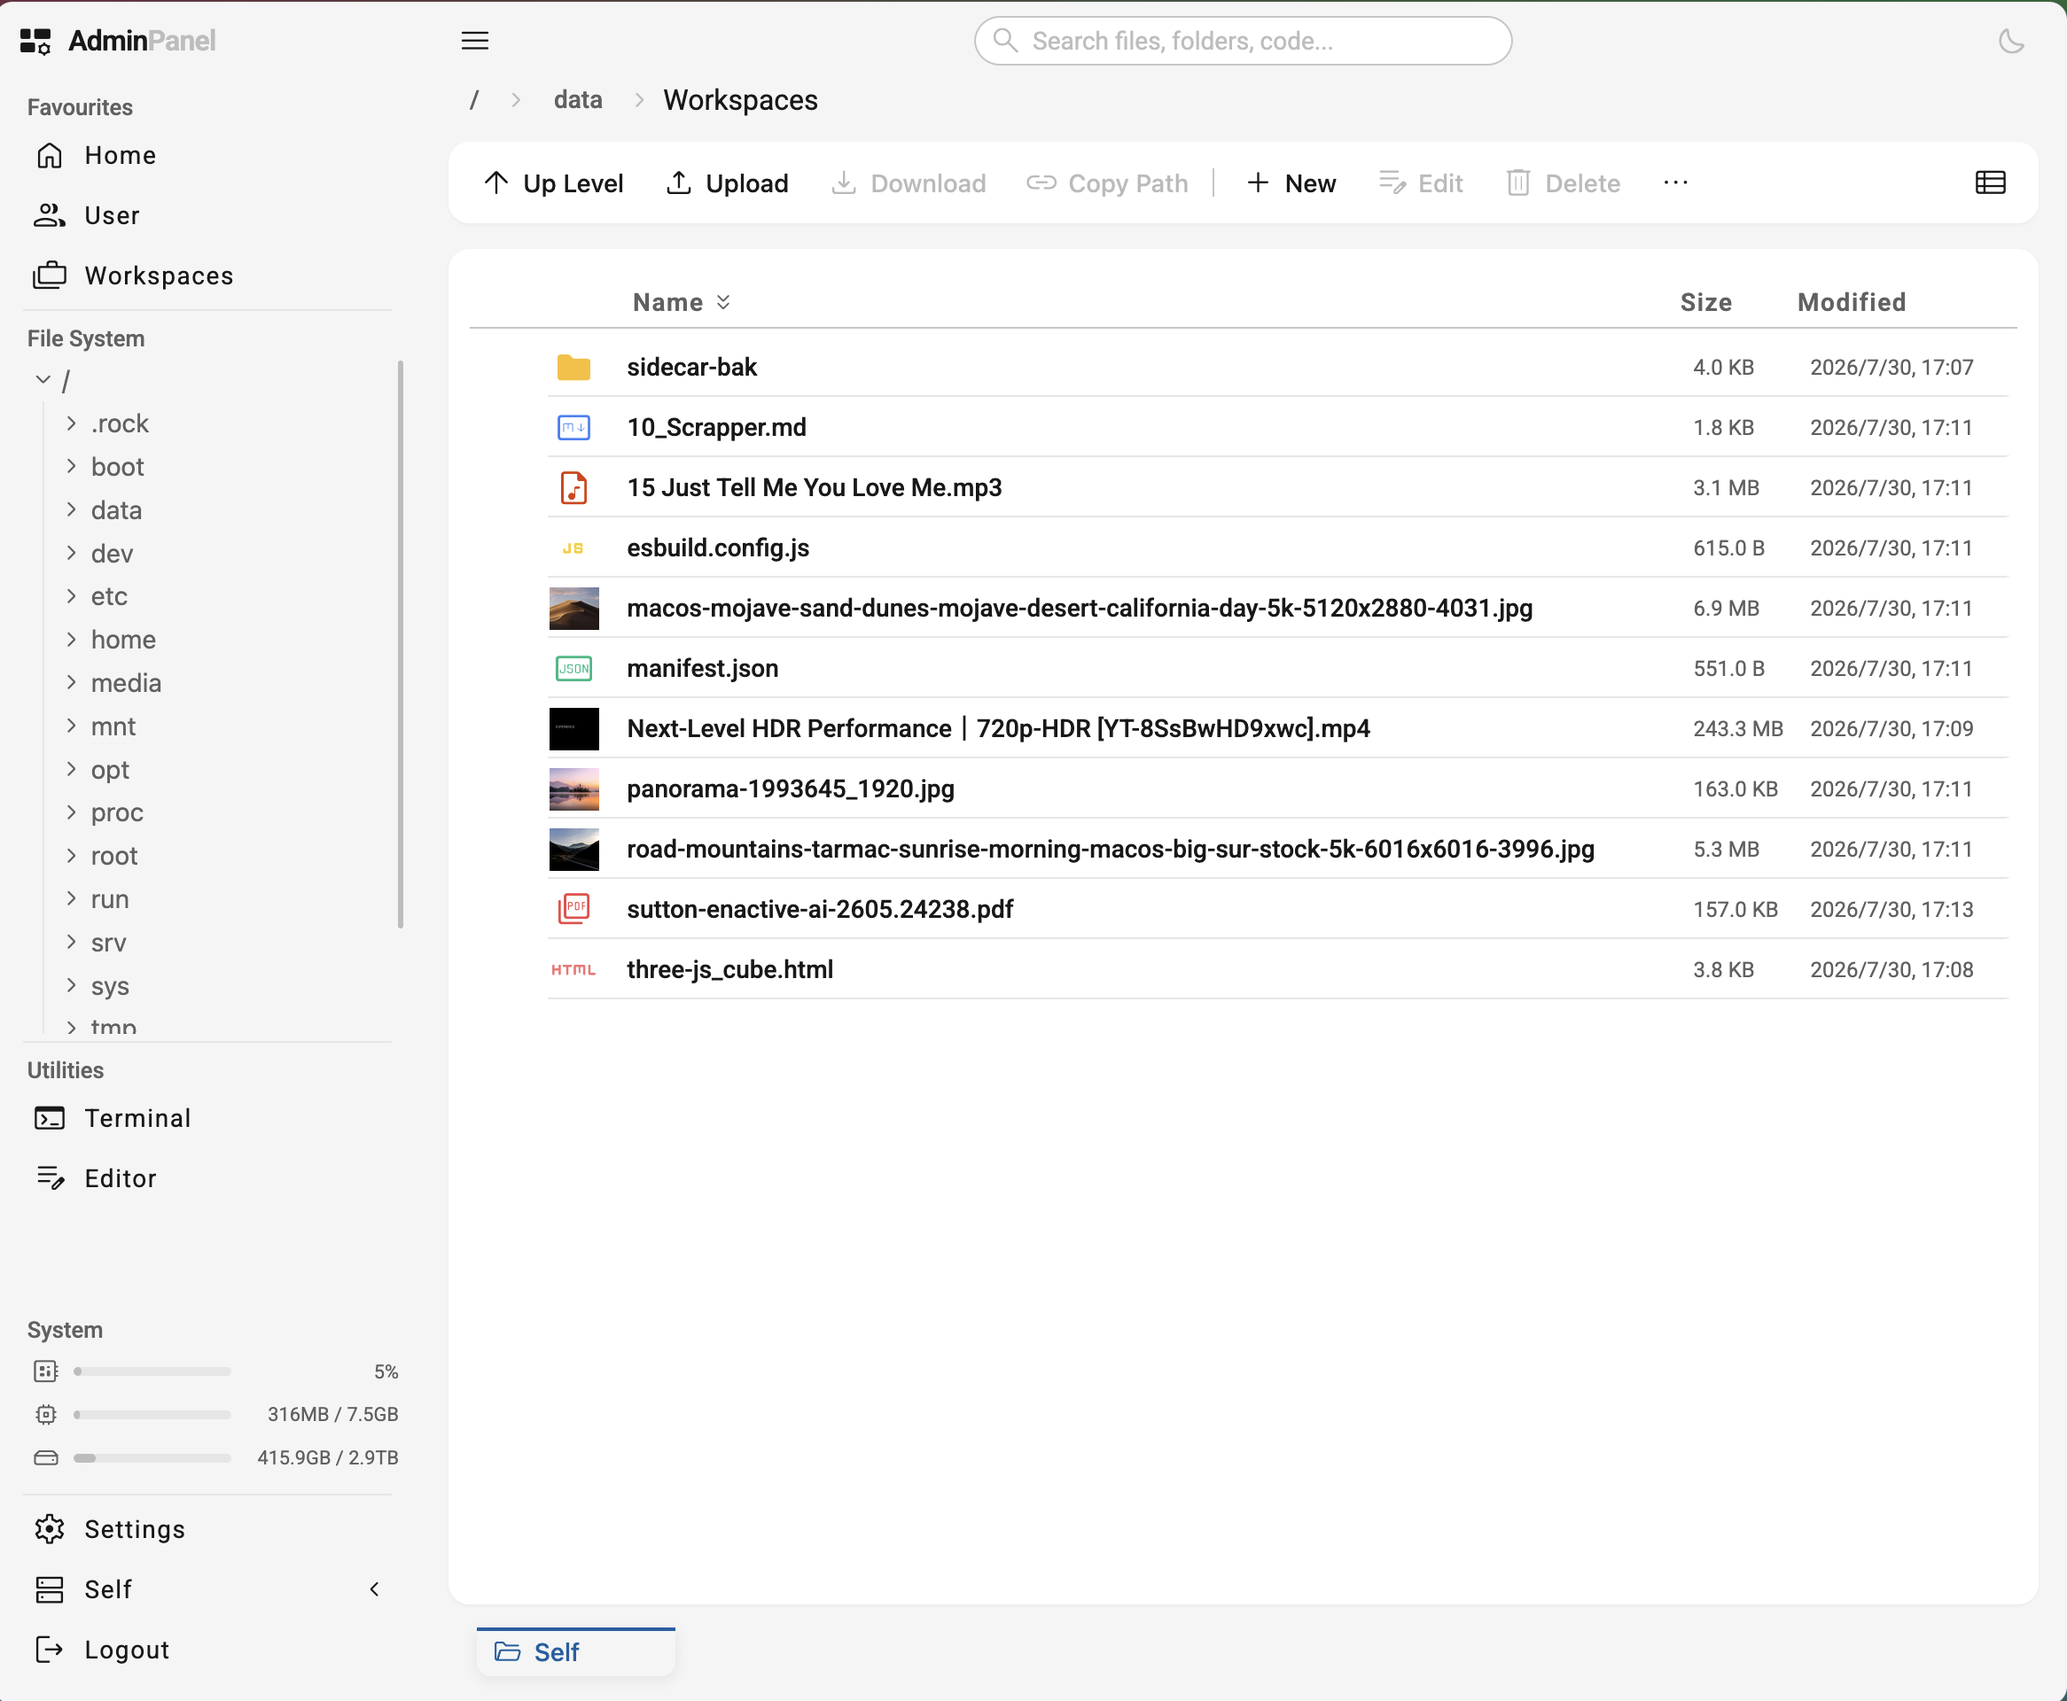
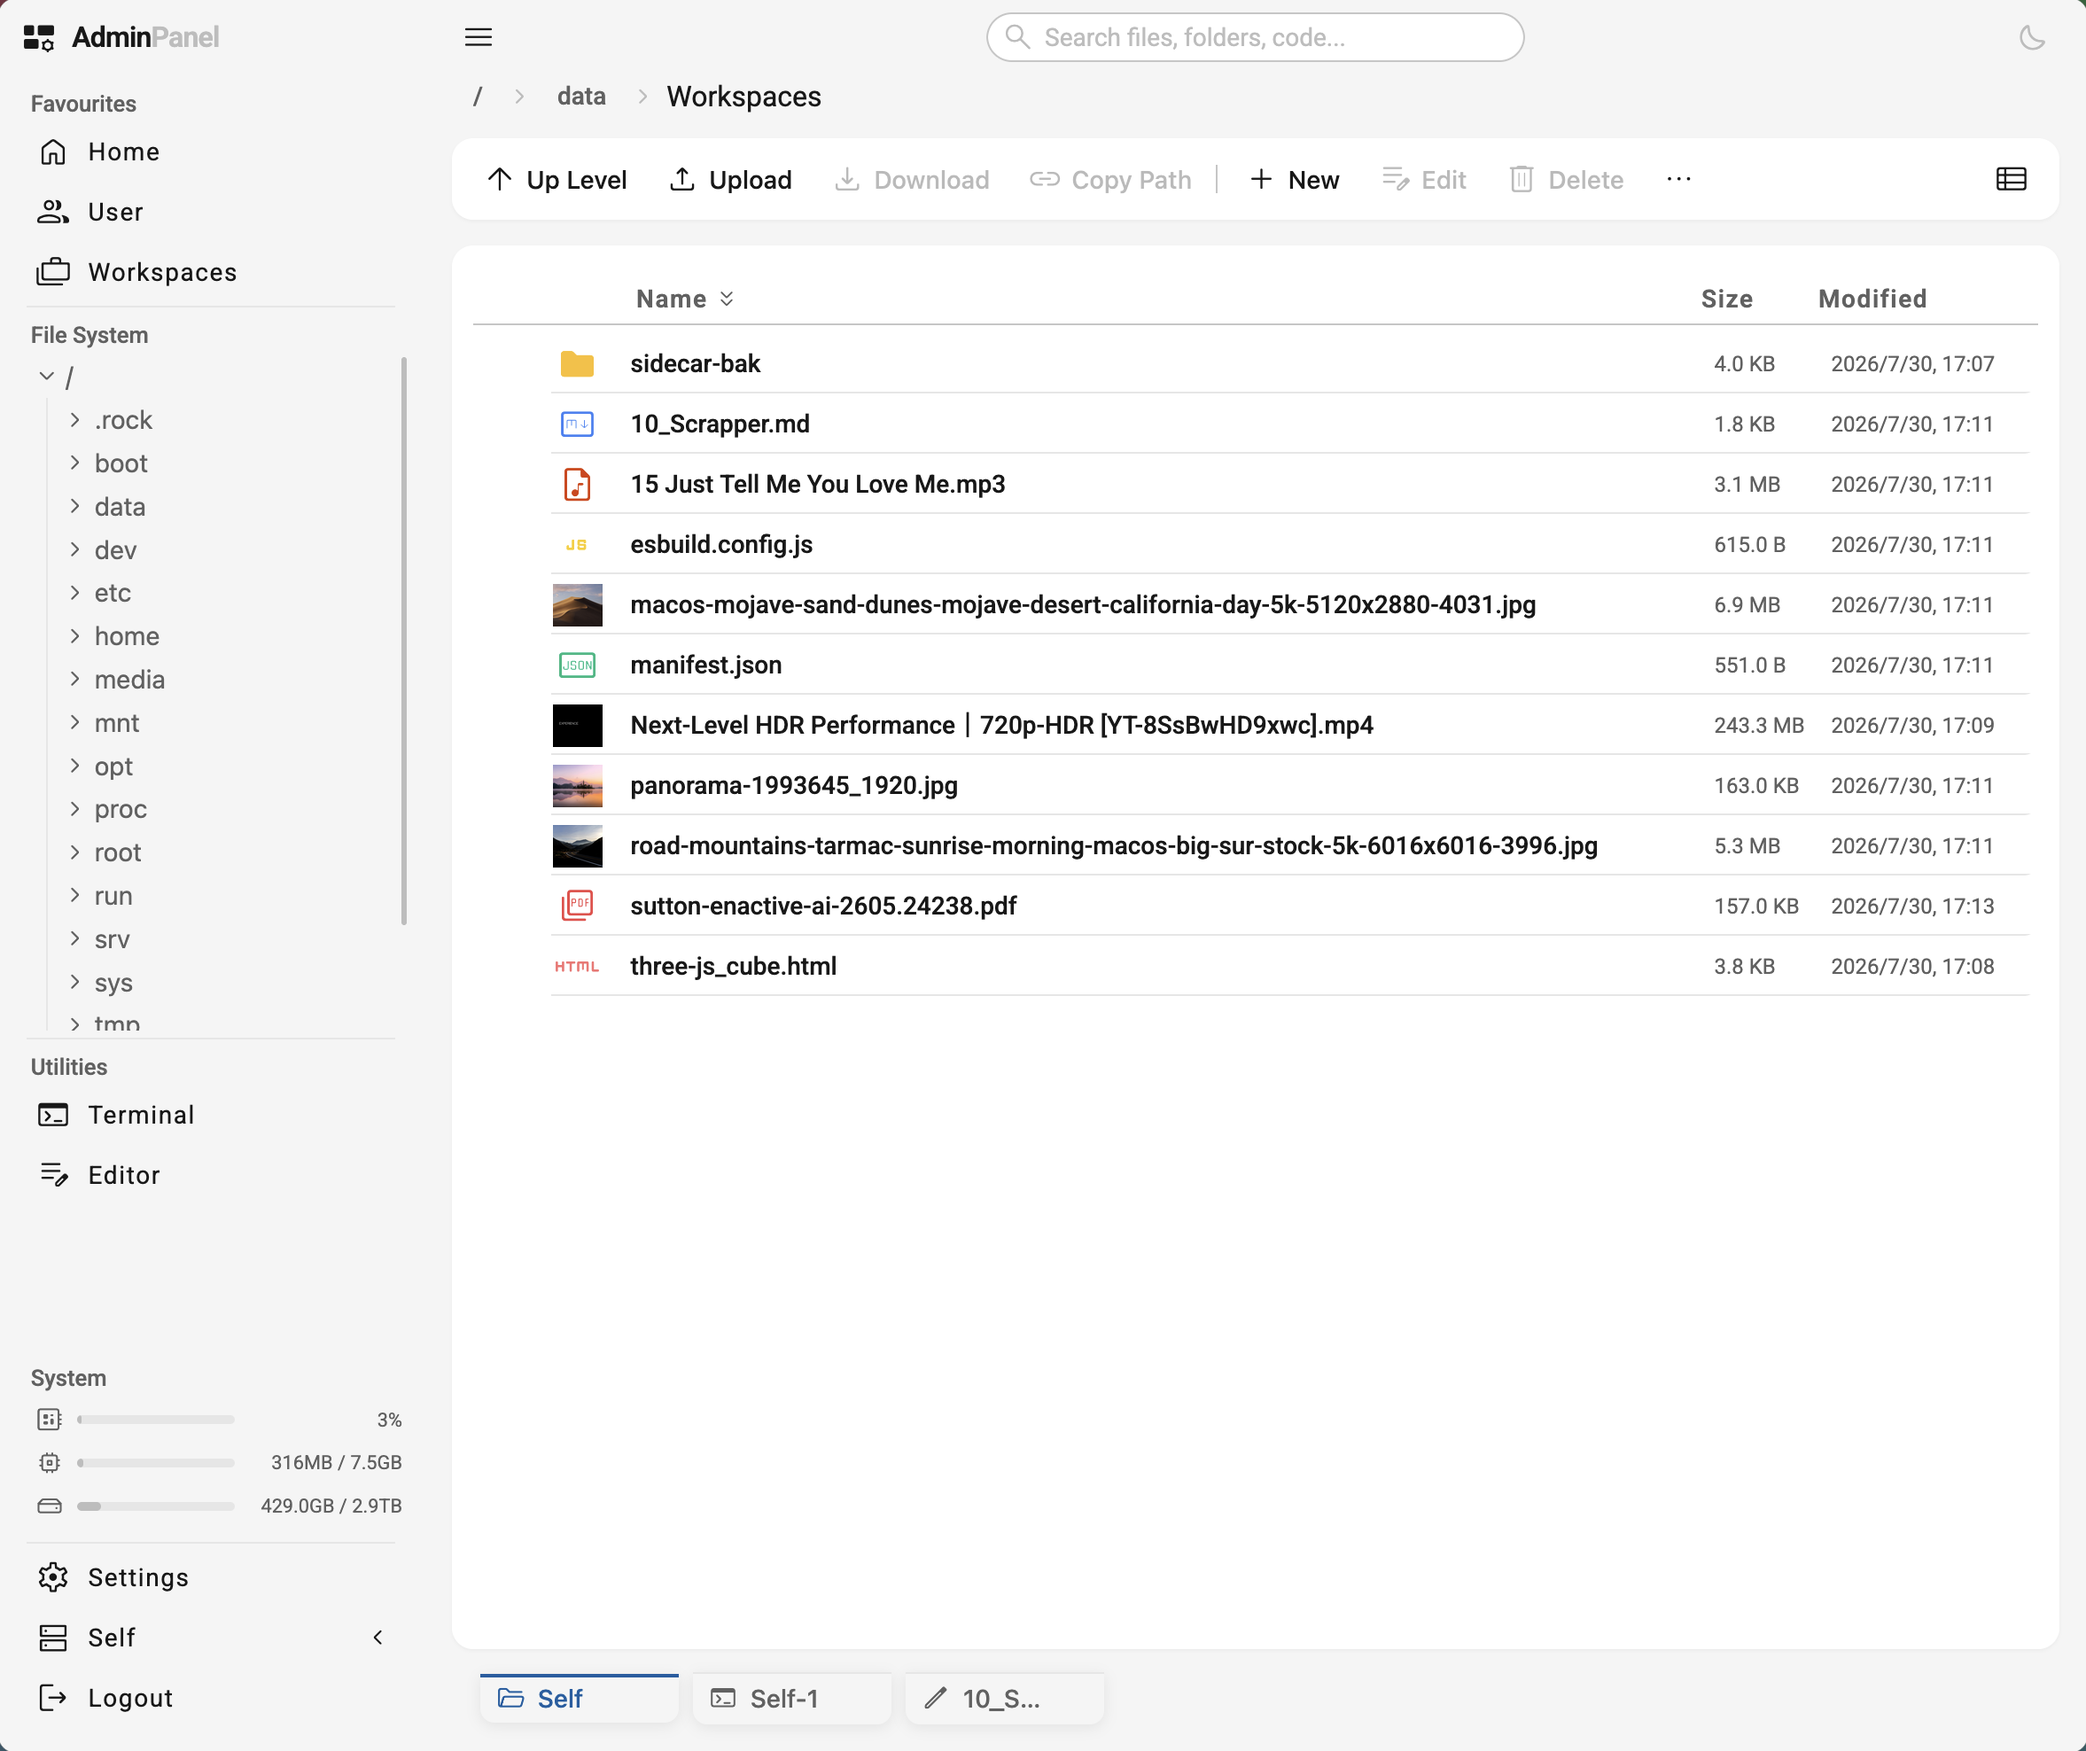
docs: update screenshots — rename set, patch README image refs

diff --git a/README.md b/README.md
@@ -45,7 +45,7 @@ The closest alternative in the multi-machine space is [file-explorer](https://gi
 * **Unified Workspace**: Editors and terminals for all connected machines inside one tab dock.
 * **Centralized Config**: Define all target machines in `admin_cfg.json`, switch with one click.
 
-<img src="docs-and-specs/assets/screenshots/settings-machines.png" width="500" alt="Multi-Machine Settings" />
+<img src="docs-and-specs/assets/screenshots/multi-machine-settings.png" width="500" alt="Multi-Machine Settings" />
 
 ### Advanced Lightbox Previewer
 * **Universal Preview**: Overlay-based viewer supporting Video, Image, Audio, PDF, Markdown, and HTML.
@@ -57,7 +57,7 @@ The closest alternative in the multi-machine space is [file-explorer](https://gi
 * **Interactive Terminal**: WebSocket PTY (`xterm.js` / `portable-pty`) with responsive resize.
 * **Jail Isolation**: `SIDECAR_ROOT_DIR` sandboxes all file operations — path-traversal hardened.
 
-<img src="docs-and-specs/assets/screenshots/filebrowser-grid-large.png" width="500" alt="File Browser — Grid View with Thumbnails" />
+<img src="docs-and-specs/assets/screenshots/ui-light-grid-large.png" width="500" alt="File Browser — Grid View with Thumbnails" />
 
 ### UI Design Highlights
 * **Business Sleek**: Professional, minimal, performance-engineered visual style.
@@ -70,7 +70,7 @@ The closest alternative in the multi-machine space is [file-explorer](https://gi
 
 Dark mode is supported out of the box:
 
-<img src="docs-and-specs/assets/screenshots/ui-dark.png" width="500" alt="SidecarX — Dark Mode" />
+<img src="docs-and-specs/assets/screenshots/ui-dark-grid-medium.png" width="500" alt="SidecarX — Dark Mode" />
 
 ---
 
